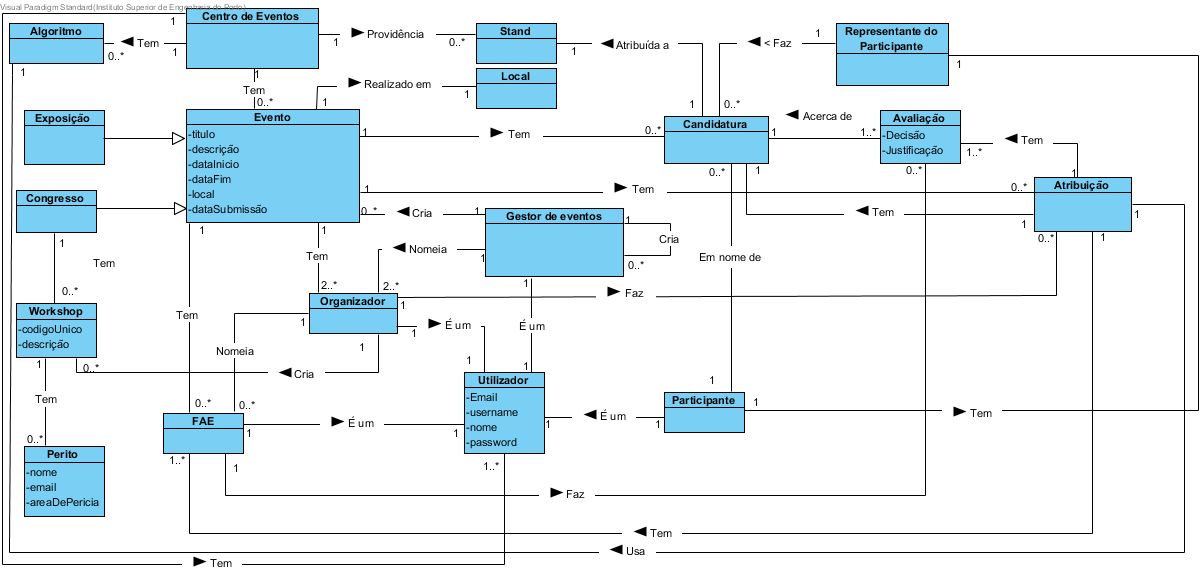
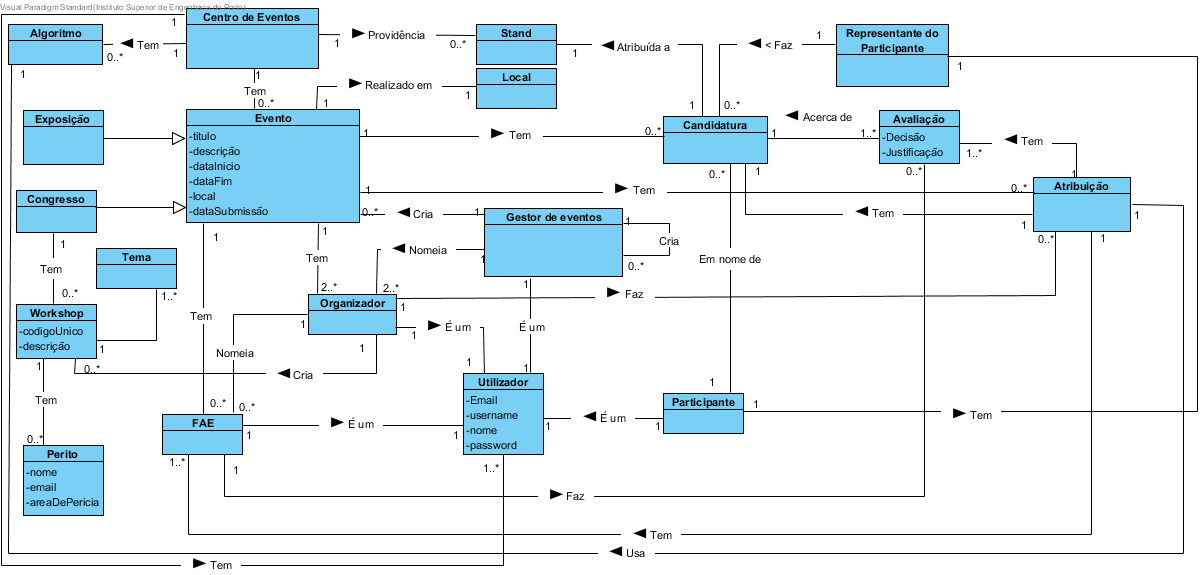
Criação dos UC10 E UC11

diff --git a/Iteração 3/Engenharia de Requisito/Casos/UC10 - Alterar Lista de Peritos.md b/Iteração 3/Engenharia de Requisito/Casos/UC10 - Alterar Lista de Peritos.md
@@ -1,38 +1,49 @@
 # UC10 Alterar Lista de Peritos
 ##	Formato breve
-O gestor de eventos inicia o registo de um novo gestor de eventos.
-O sistema pede as credências do utilizador que será declarado como gestor.
-O gestor de eventos insere o utilizador.
-O sistema mostra os dados do novo gestor e pede confirmação.
-O gestor confirma o gestor.
-O sistema regista o utilizador como gestor de eventos e informa do sucesso da operação.
+O Organizador inicia a edição da lista de peritos de um Workshop.
+O sistema mostra os congressos com workshops organizados pelo Organizador.
+O Organizador escolhe um evento.
+O sistema mostra os workshops do evento.
+O Organizador escolhe um workshop.
+O sistema solicita a operação a pretendida pelo Organizador.
+O Organizador seleciona a operação.
+O sistema mostra os passos a serem efetuados.
+O Organizador efetua os passos solicitados.
+O sistema apresenta o resultado final e solicita confirmação.
+O Organizador confirma.
+O sistema regista as alterções efetuadas e indica sucesso.
 
 ##	SSD de formato breve
-![SSD_UC8.png](../../Imagens/SSD_UC8.png)
+![SSD_UC10.png](../../Imagens/SSD_UC10.png)
 
 ##	Formato completo
 
 ### Ator principal
-* Gestor de eventos
+* Organizador
 
 ### Partes interessadas e seus interesses
-+ Gestor de eventos: Pretende adicionar outros gestores para poderem aceder a funcionalidades específicas de gestor de eventos.
-+ Centro de Eventos: Pretende criar e manter registo dos gestores de eventos.
-+ Utilizador Registado: Pretende que seja declarado como gestor de eventos para poder aceder a funcionalidades específicas de gestor de eventos.
++ Organizador: Pretende alterar a lista de peritos de um dos Workshops dos seus Congressos.
++ Workshop: Pretende manter atualizada a sua lista de peritos.
 
 ### Pré-condições
-+ Utilizador está autenticado.
++ Tem de ser Organizador de congressos e estes têm de ter Workshops com peritos.
 
 ### Pós-condições
-* O registo do gestor de eventos fica armazenado no sistema.
+* A lista de peritos fica alterada.
 
 ### Cenário de sucesso principal (ou fluxo básico)
-1. O gestor de eventos inicia o registo de um novo gestor de eventos.
-2. O sistema pede as credências do utilizador que será declarado como gestor.
-3. O gestor de eventos insere os dados do utilizador.
-4. O sistema valida o utilizador e solicita confirmação do gestor.
-5. O gestor confirma os dados.
-6. O sistema regista o utilizador como gestor de eventos e informa o gestor do sucesso da operação.
+1. O Organizador inicia a edição da lista de peritos de um Workshop.
+2. O sistema mostra os congressos com workshops organizados pelo Organizador.
+3. O Organizador escolhe um evento.
+4. O sistema mostra os workshops do evento.
+5. O Organizador escolhe um workshop.
+6. O sistema solicita a operação a pretendida pelo Organizador.
+7. O Organizador seleciona a operação.
+8. O sistema mostra os passos a serem efetuados.
+9. O Organizador efetua os passos solicitados.
+10. O sistema apresenta o resultado final e solicita confirmação.
+11. O Organizador confirma.
+12. O sistema regista as alterções efetuadas e indica sucesso.
 
 ### Extensões (ou fluxos alternativos)
 \*a. O utilizador (não registado) solicita cancelamento do registo.
@@ -54,6 +65,32 @@ O sistema regista o utilizador como gestor de eventos e informa do sucesso da op
 
     2a. O  gestor de eventos não altera os dados. O caso de uso termina.
 
+    3a. Dados mínimos obrigatórios em falta.
+
+    1. O sistema informa quais os dados em falta.
+    2. O sistema permite a introdução dos dados em falta (passo 3)
+
+        2.a O gestor de eventos não altera os dados. O caso de uso termina.
+
+
+5a. Dados mínimos obrigatórios em falta.
+
+1. O sistema informa quais os dados em falta.
+2. O sistema permite a introdução dos dados em falta (passo 3)
+
+    2.a O gestor de eventos não altera os dados. O caso de uso termina.
+
+
+5b. O sistema detecta que os dados introduzidos (ou algum subconjunto dos dados) são inválidos.
+
+1. O sistema alerta o gestor de eventos para o facto.
+2. O sistema permite a sua alteração (passo 3)
+
+    2a. O  gestor de eventos não altera os dados. O caso de uso termina.     
+
+11a. O Organizador não confirma.
+
+1. O caso de uso termina.
 
 ## Requisitos especiais
 *
@@ -65,7 +102,4 @@ O sistema regista o utilizador como gestor de eventos e informa do sucesso da op
 *
 
 ## Questões em aberto
-+ O registo de gestores de eventos deve estar sempre disponível?
-+ É possivél o gestor anular a ação realizada?
-+ O utilizador deve ser notificado do seu registo como gestor de eventos?
 + Qual a frequência de ocorrência deste caso de uso?

diff --git a/Iteração 3/Engenharia de Requisito/Casos/UC11 - Alterar Candidatura.md b/Iteração 3/Engenharia de Requisito/Casos/UC11 - Alterar Candidatura.md
@@ -1,14 +1,19 @@
 # UC11 Alterar Candidatura
+
 ##	Formato breve
-O gestor de eventos inicia o registo de um novo gestor de eventos.
-O sistema pede as credências do utilizador que será declarado como gestor.
-O gestor de eventos insere o utilizador.
-O sistema mostra os dados do novo gestor e pede confirmação.
-O gestor confirma o gestor.
-O sistema regista o utilizador como gestor de eventos e informa do sucesso da operação.
+O Representante inicia a edição da Candidatura.
+O sistema mostra os eventos a que concorreu cuja a data de submissão ainda não tenha expirado.
+O Representante seleciona o evento.
+O sistema mostra a candidatura e solicita operação.
+O Organizador seleciona a operação.
+O sistema mostra os passos a serem efetuados.
+O Organizador efetua os passos solicitados.
+O sistema apresenta o resultado final e solicita confirmação.
+O Organizador confirma.
+O sistema regista as alterções efetuadas e indica sucesso.
 
 ##	SSD de formato breve
-![SSD_UC8.png](../../Imagens/SSD_UC8.png)
+![SSD_UC11.png](../../Imagens/SSD_UC11.png)
 
 ##	Formato completo
 
@@ -16,22 +21,27 @@ O sistema regista o utilizador como gestor de eventos e informa do sucesso da op
 * Representante do Participante
 
 ### Partes interessadas e seus interesses
-+ Centro de Eventos: Pretende que a candidatura efetuada seja alterada.
-+ Participante: Pretende que a sua candidatura a um evento seja alterada.
++ Representante do Participante: Pretende alterar a sua candidatura.
++ Evento: Pretende manter atualizada as suas candidaturas.
 
 ### Pré-condições
-+ A candidatura tem de estar previamente feita.
++ Tem de ter uma candidatura registada no evento.
++ Não pode ter expirado o periodo de submissão de candidaturas desse evento.
 
 ### Pós-condições
-* O registo das alterações da candidatura a um evento fica armazenado no sistema.
+* A candidatura fica alterada.
 
 ### Cenário de sucesso principal (ou fluxo básico)
-1. O gestor de eventos inicia o registo de um novo gestor de eventos.
-2. O sistema pede as credências do utilizador que será declarado como gestor.
-3. O gestor de eventos insere os dados do utilizador.
-4. O sistema valida o utilizador e solicita confirmação do gestor.
-5. O gestor confirma os dados.
-6. O sistema regista o utilizador como gestor de eventos e informa o gestor do sucesso da operação.
+1. O Representante inicia a edição da Candidatura.
+2. O sistema mostra os eventos a que concorreu cuja a data de submissão ainda não tenha expirado.
+3. O Representante seleciona o evento.
+4. O sistema mostra a candidatura e solicita operação.
+5. O Organizador seleciona a operação.
+6. O sistema mostra os passos a serem efetuados.
+7. O Organizador efetua os passos solicitados.
+8. O sistema apresenta o resultado final e solicita confirmação.
+9. O Organizador confirma.
+10. O sistema regista as alterções efetuadas e indica sucesso.
 
 ### Extensões (ou fluxos alternativos)
 \*a. O utilizador (não registado) solicita cancelamento do registo.
@@ -53,6 +63,32 @@ O sistema regista o utilizador como gestor de eventos e informa do sucesso da op
 
     2a. O  gestor de eventos não altera os dados. O caso de uso termina.
 
+    3a. Dados mínimos obrigatórios em falta.
+
+    1. O sistema informa quais os dados em falta.
+    2. O sistema permite a introdução dos dados em falta (passo 3)
+
+        2.a O gestor de eventos não altera os dados. O caso de uso termina.
+
+
+5a. Dados mínimos obrigatórios em falta.
+
+1. O sistema informa quais os dados em falta.
+2. O sistema permite a introdução dos dados em falta (passo 3)
+
+    2.a O gestor de eventos não altera os dados. O caso de uso termina.
+
+
+5b. O sistema detecta que os dados introduzidos (ou algum subconjunto dos dados) são inválidos.
+
+1. O sistema alerta o gestor de eventos para o facto.
+2. O sistema permite a sua alteração (passo 3)
+
+    2a. O  gestor de eventos não altera os dados. O caso de uso termina.     
+
+9a. O Organizador não confirma.
+
+1. O caso de uso termina.
 
 ## Requisitos especiais
 *
@@ -64,7 +100,4 @@ O sistema regista o utilizador como gestor de eventos e informa do sucesso da op
 *
 
 ## Questões em aberto
-+ O registo de gestores de eventos deve estar sempre disponível?
-+ É possivél o gestor anular a ação realizada?
-+ O utilizador deve ser notificado do seu registo como gestor de eventos?
 + Qual a frequência de ocorrência deste caso de uso?

diff --git a/Iteração 3/Design/UC9DOO.md b/Iteração 3/Design/UC9DOO.md
@@ -14,14 +14,15 @@
 | 6. O sistema pede o tema do workshop.                                                                 | ...armazenar o tema?             | Congresso         | IE: é a classe que contem todos os temas do workshop.                             |
 | 7. O Organizador introduz o tema do workshop.                                                         | n/a                              |                   |                                                                                   |
 | 8. Os passos 6 a 7 repetem-se até todos os temas terem sido introduzidos.                             | n/a                              |                   |                                                                                   |
-| 9. O sistema pede os dados do perito do workshop.                                                     | ...armazenar os dados do perito? | Perito            | IE: é a classe responsável por armazenar todos os dados do perito.                |
+| 9. O sistema pede os dados do perito do workshop e apresenta todos os existentes no sistema.          | ...armazenar os dados do perito? | Perito            | IE: é a classe responsável por armazenar todos os dados do perito.                |
 |                                                                                                       | ...instanciar o perito?          | Workshop          | Creator                                                                           |
+|                                                                                                       | ...procurar os peritos?          | Workshop          | IE: é a classe responsável por armazenar todos os peritos criados do workshop.    |
+|                                                                                                       | ...procurar os Workshops?        | Congresso         | IE: é a classe responsável por armazenar todos os Workshops criados do congresso. |
 | 10. O Organizador introduz os dados do perito do workshop(nome, email e áreas de perícia relevantes). | n/a                              |                   |                                                                                   |
 | 11. Os passos 9 a 10 repetem-se até todos os peritos,terem sido introduzidos.                         | n/a                              |                   |                                                                                   |
 | 12. O sistema mostra o workshop criado e pede confirmação.                                            | n/a                              |                   |                                                                                   |
 | 13. O Organizador confirma.                                                                           | n/a                              |                   |                                                                                   |
 | 14. O sistema regista o workshop no congresso e apresenta sucesso.                                    | ...registar o workshop?          | Congresso         | IE: é a classe responsável por armazenar todos os workshops criados do congresso. |
-
 
 
 ##	Diagrama de Sequência ##

diff --git a/Iteração 3/Engenharia de Requisito/Casos/UC9 - Criar workshop.md b/Iteração 3/Engenharia de Requisito/Casos/UC9 - Criar workshop.md
@@ -7,7 +7,7 @@ O sistema pede os dados do workshop(código único e descrição).
 O Organizador introduz os dados.
 O sistema pede os temas do workshop.
 O Organizador introduz os temas do workshop.
-O sistema pede os dados dos peritos do workshop.
+O sistema pede os dados do perito do workshop e apresenta todos os existentes no sistema.
 O Organizador introduz os dados dos peritos do workshop(nome, email e áreas de perícia relevantes).
 O sistema mostra o workshop criado e pede confirmação.
 O Organizador confirma.
@@ -42,7 +42,7 @@ O sistema regista o workshop no congresso e apresenta sucesso.
 6. O sistema pede o tema do workshop.
 7. O Organizador introduz o tema do workshop.
 8. Os passos 6 a 7 repetem-se até todos os temas terem sido introduzidos.
-9. O sistema pede os dados do perito do workshop.
+9. O sistema pede os dados do perito do workshop e apresenta todos os existentes no sistema.
 10. O Organizador introduz os dados do perito do workshop(nome, email e áreas de perícia relevantes).
 11. Os passos 9 a 10 repetem-se até todos os peritos  terem sido introduzidos.
 12. O sistema mostra o workshop criado e pede confirmação.
